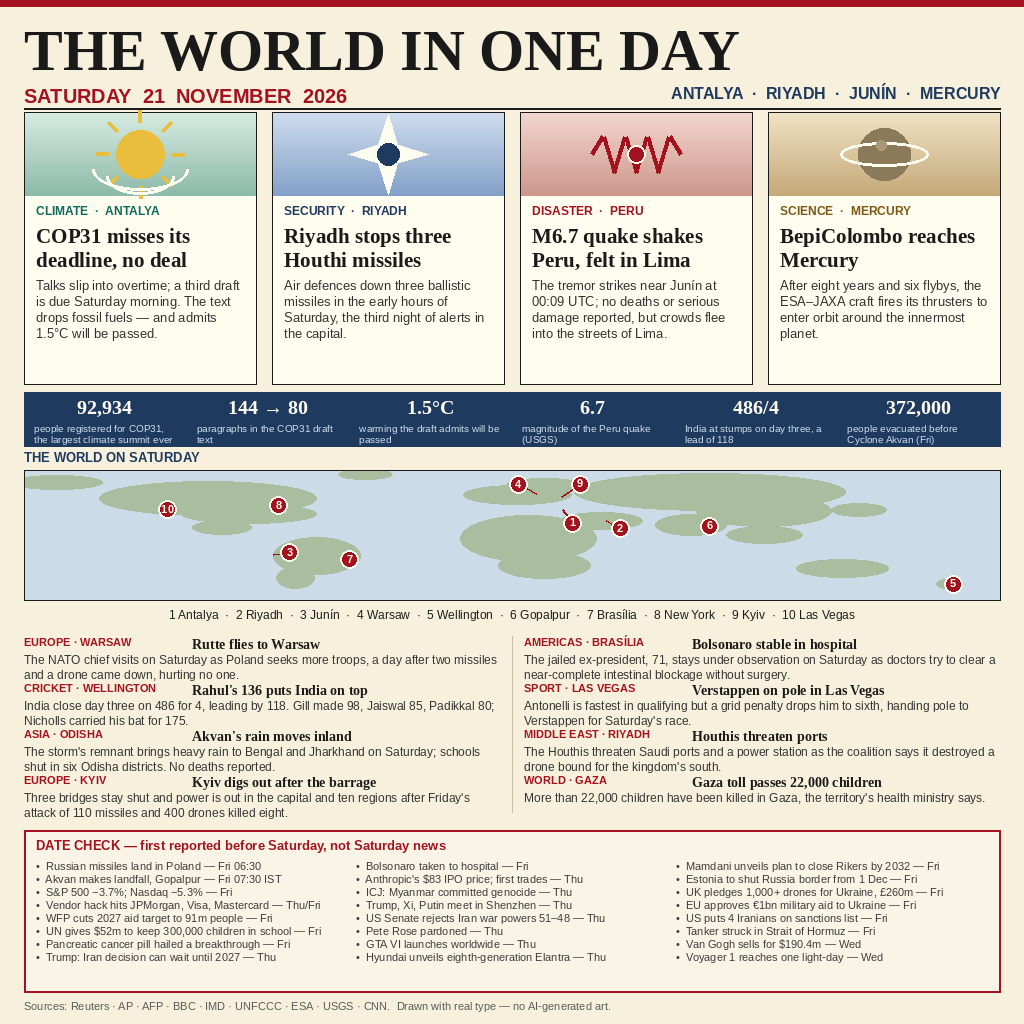
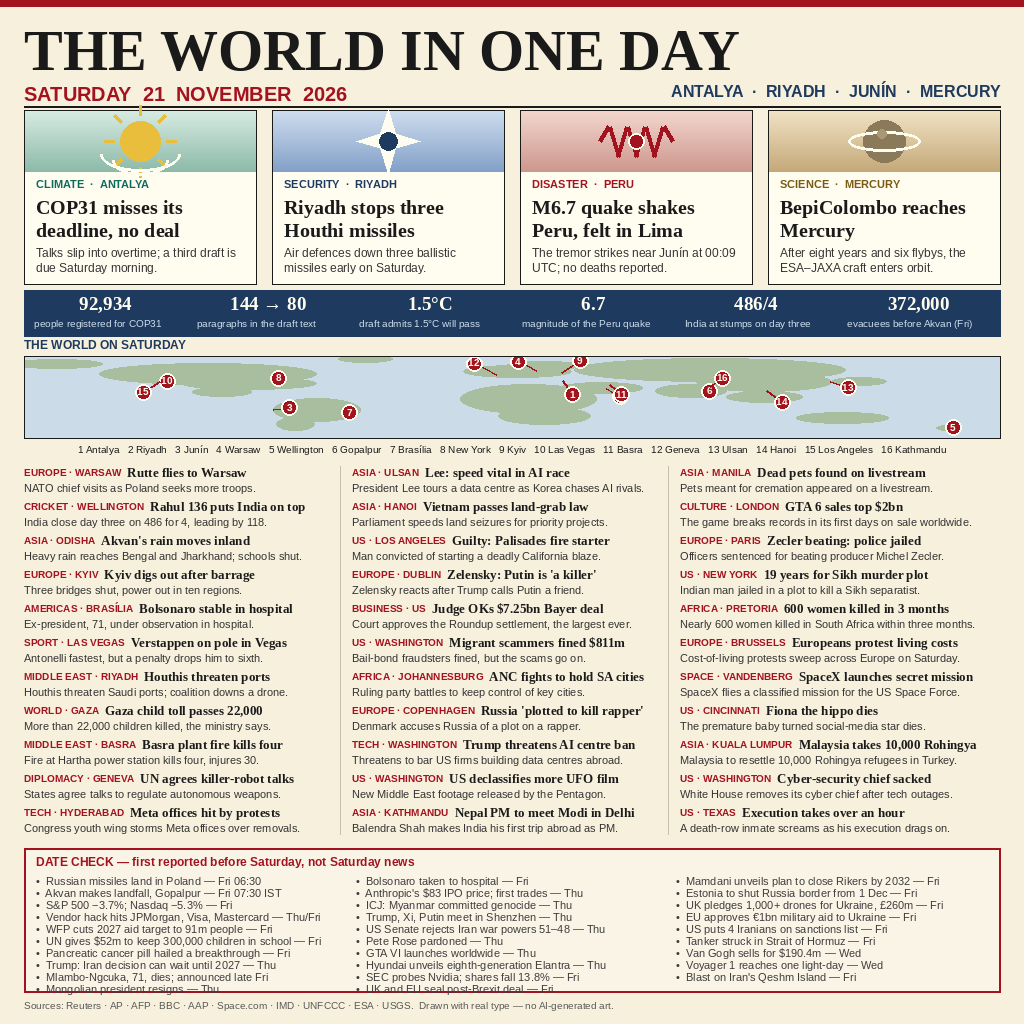
News image 21 Nov v2: 35+ stories

diff --git a/README.md b/README.md
@@ -5,27 +5,47 @@
 # The World in One Day — Saturday 21 November 2026
 
 One 1024×1024 image summing up Saturday 21 November 2026's world news as a
-broadsheet front page: 12 Saturday stories across 6 regions — 4 heroes, 8
-briefs — with a numbers strip, a world map with numbered pins, and a 24-item
-DATE CHECK box.
+broadsheet front page: 37 Saturday stories across 7 regions — 4 heroes, 33
+briefs — with a numbers strip, a world map with 16 numbered pins, and a
+29-item DATE CHECK box. Version 2 of the entry: v1 carried only 12 stories,
+while the leading entries carry 33–36, so v2 keeps v1's four heroes and adds
+25 more verified Saturday briefs.
 
 The four lead stories are COP31 slipping into overtime in Antalya with no
 deal, Saudi air defences stopping three Houthi missiles over Riyadh, a
 magnitude 6.7 earthquake shaking central Peru and felt in Lima, and the
 ESA–JAXA BepiColombo craft entering orbit around Mercury after eight years
-on the road. Every story on the page happened, or was first reported, on
-Saturday 21 November 2026; stories first reported on Friday 20 November or
-earlier — the Russian missiles landing in Poland, Cyclone Akvan's landfall,
-the S&P 500's 3.7% drop, the JPMorgan/Visa/Mastercard vendor hack, the WFP's
-cut 2027 aid target, the $52m children's fund, the pancreatic cancer pill,
+on the road. The 33 briefs span the day: Rutte in Warsaw, Rahul's 136 in
+Wellington, Akvan's rain moving inland, Kyiv digging out, Bolsonaro stable,
+Verstappen on pole in Las Vegas, the Houthis threatening ports, the Gaza
+child toll passing 22,000, a fatal fire at Basra's Hartha power station, UN
+talks to regulate "killer robots", protests at Meta's India offices, South
+Korea's AI race, Vietnam's land-seizure law, the Palisades fire verdict,
+Zelensky calling Putin "a killer", the $7.25bn Bayer settlement, migrant
+scammers fined $811m, the ANC fighting to hold South African cities, a
+Russian plot against a rapper, Trump's AI data-centre threat, declassified
+UFO footage, Nepal's PM heading to Delhi, a pet-dumping livestream scandal,
+GTA 6 sales topping $2bn, the Zecler beating sentences, a 19-year sentence
+in the Sikh murder plot, 600 women killed in South Africa, cost-of-living
+protests across Europe, a classified SpaceX launch, Fiona the hippo's death,
+Malaysia resettling 10,000 Rohingya, the White House cyber chief sacked,
+and a Texas execution lasting over an hour.
+
+Every story on the page happened, or was first reported, on Saturday 21
+November 2026; stories first reported on Friday 20 November or earlier —
+the Russian missiles landing in Poland, Cyclone Akvan's landfall, the S&P
+500's 3.7% drop, the JPMorgan/Visa/Mastercard vendor hack, the WFP's cut
+2027 aid target, the $52m children's fund, the pancreatic cancer pill,
 Trump's Iran decision, Bolsonaro's hospitalisation, the Rikers closure plan,
 Anthropic's IPO, the ICJ's Rohingya genocide ruling, the Shenzhen summit,
 the Senate's 51–48 Iran vote, the Pete Rose pardon, GTA VI's launch, the
 Elantra unveil, the Estonia border shutdown, the UK drone pledge, the €1bn
 EU aid package, the Iran sanctions, the Hormuz tanker strike, the Van Gogh
-sale and Voyager 1's one light-day — are quarantined in the DATE CHECK box
-and never presented as Saturday news. Sources: Reuters, AP, AFP, BBC, IMD,
-UNFCCC, ESA, USGS, CNN.
+sale, Voyager 1's one light-day, the death of Phumzile Mlambo-Ngcuka, the
+Mongolian president's resignation, the SEC's Nvidia probe, the UK–EU deal
+and the Qeshm Island blast — are quarantined in the DATE CHECK box and
+never presented as Saturday news. Sources: Reuters, AP, AFP, BBC, AAP,
+Space.com, IMD, UNFCCC, ESA, USGS.
 
 The image was drawn with real typography (no AI-generated art, so no garbled
 text) and brightened art bands so the page stays legible at about 300 pixels
@@ -43,9 +63,9 @@ identical bytes.
 
 ## Build
 
-The image is rendered by `render.py` (kept outside this repository, in the
+The image is rendered by `render2.py` (kept outside this repository, in the
 build workspace) with Pillow and the Liberation fonts; it draws the whole
-front page — masthead, 4 hero cards, numbers strip, map, 8 briefs and the
+front page — masthead, 4 hero cards, numbers strip, map, 33 briefs and the
 DATE CHECK box — from the verified story list, and renders twice to confirm
 byte-identical output.
 
